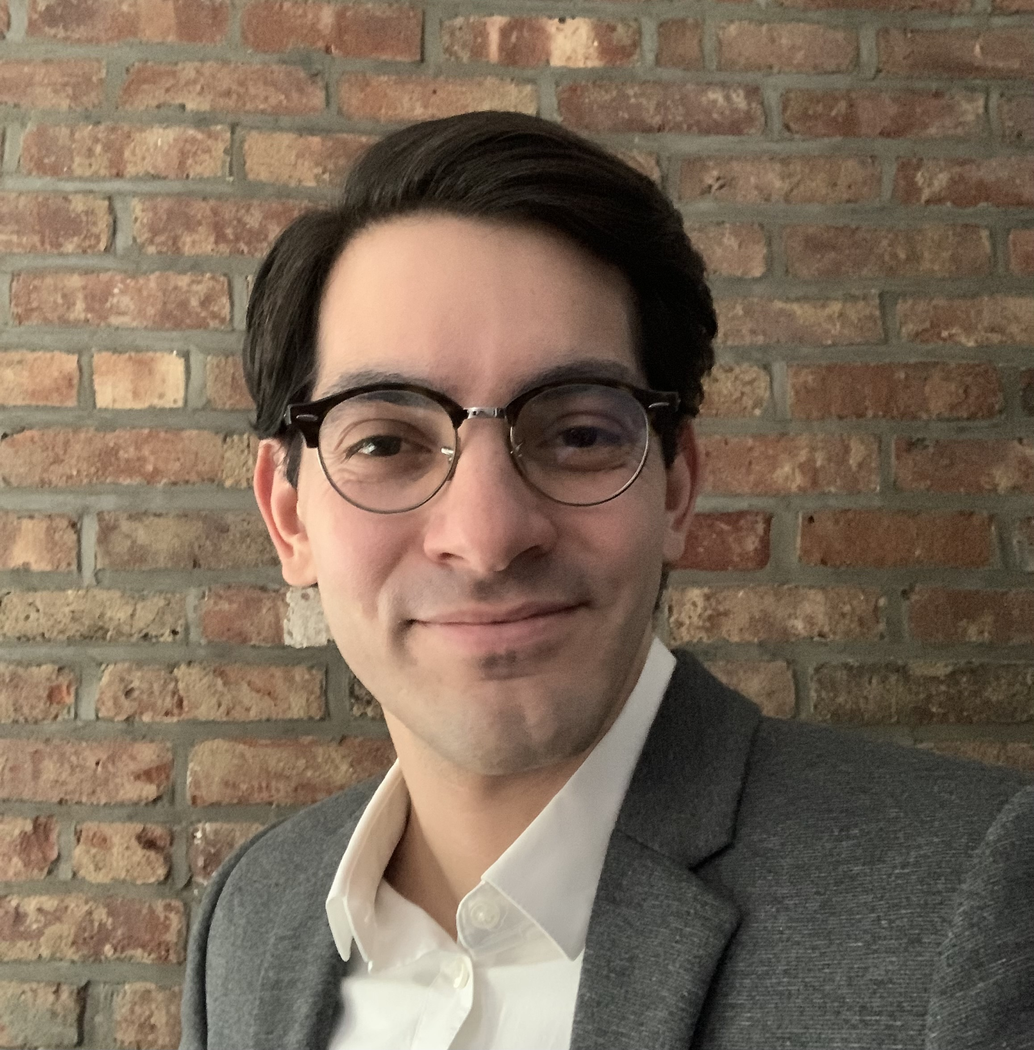
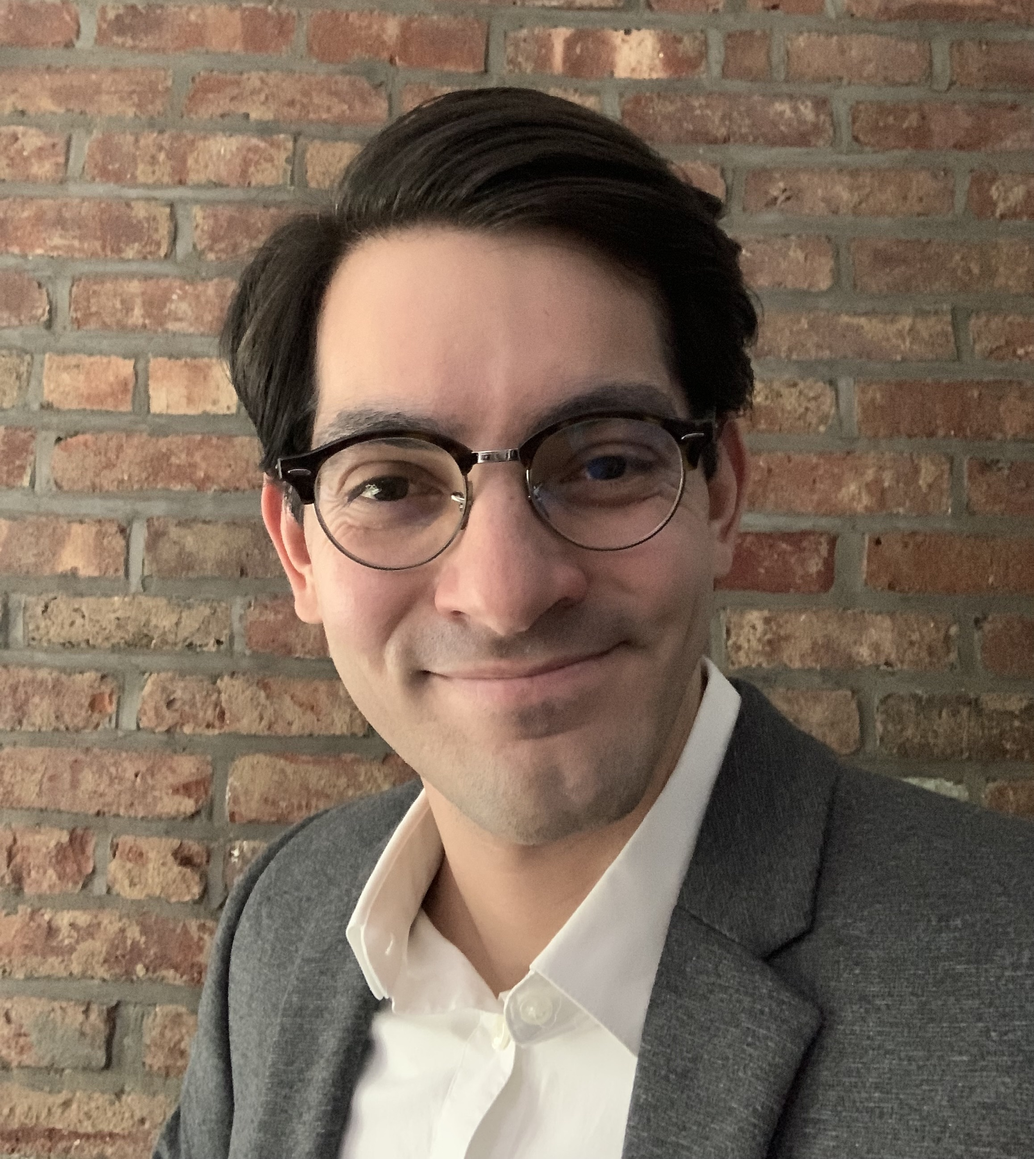
meta

diff --git a/index.html b/index.html
@@ -6,9 +6,10 @@
 	<script src="script.js"></script>
 	<link rel="stylesheet" href="styles.css">
 	<link rel="stylesheet" href="mobile.css" media="(max-width: 1160px)">
+	<link rel="icon" href="m2.png" type="image/x-icon">
 	<meta property="og:title" content="Andrew Scott">
   	<meta property="og:description" content="Andrew Scott's Portfolio">
-  	<meta property="og:image" content="cube.gif">
+  	<meta property="og:image" content="m2.jpeg">
   	<meta property="og:url" content="ndrwsctt.github.io">
 	<script>
 		document.addEventListener("DOMContentLoaded", function() {
